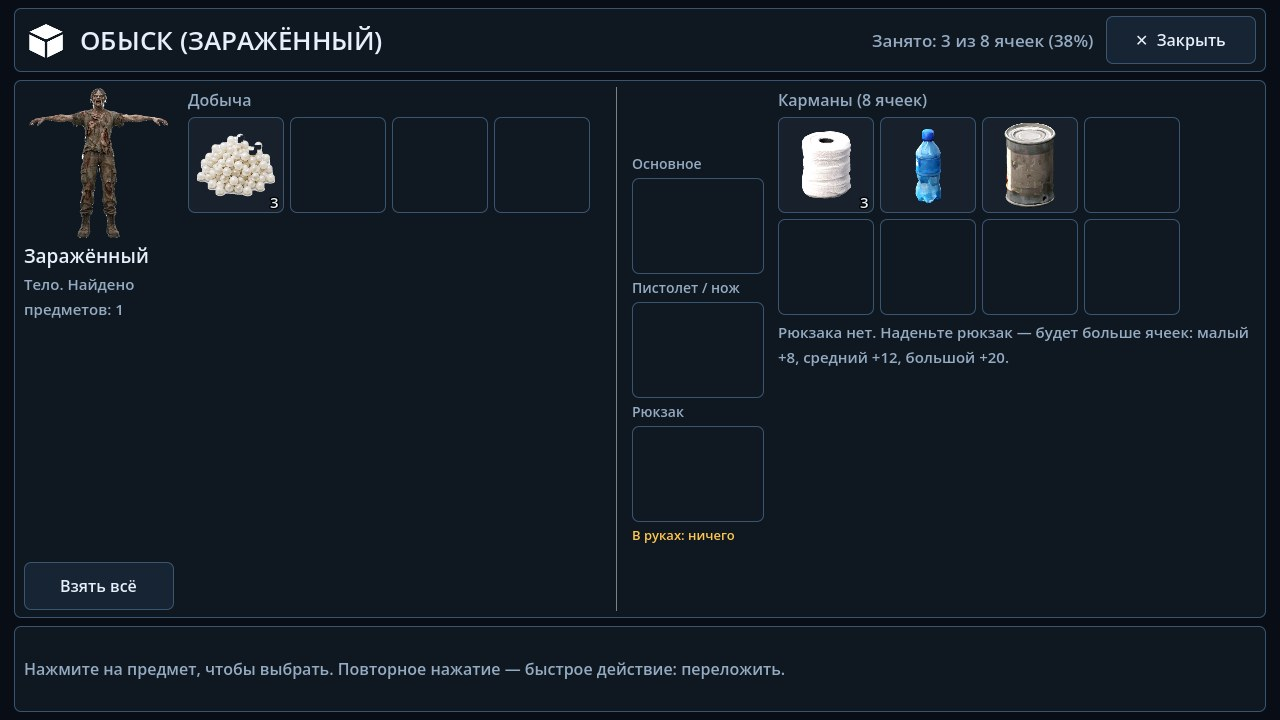
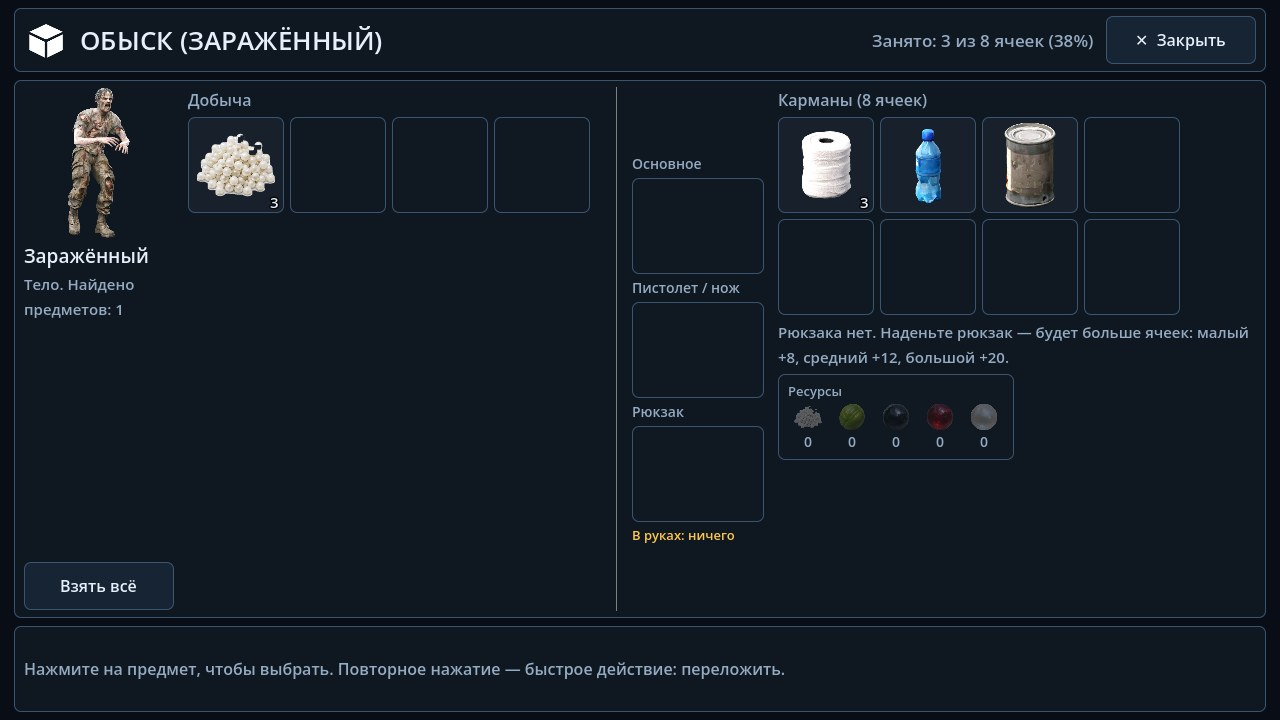
Стенд: картинка заражённого в живой позе (снимок 3D-модели) — обыск и справочник; сборка 30
Claude-Session: https://claude.ai/code/session_012mFYCmtNnDBPzGE6DVCLqL

Changed region(s): [[0.0312, 0.1222, 0.125, 0.3361], [0.5938, 0.5194, 0.6875, 0.6111], [0.7188, 0.55, 0.7812, 0.6111]]

diff --git a/stand/docs/WORLD.md b/stand/docs/WORLD.md
@@ -191,6 +191,9 @@
   `KINDS`: предмет, от, до); что именно лежит, решается при появлении. Горошина и жемчужины в игре есть как
   предметы, но пока ни в ком не лежат: они для существ сильнее. Значки вырезаны из присланной картинки.
   ![добыча в карманах](loot.jpg)
+- Картинка врага (окно обыска и справочник) — снимок его 3D-модели в живой позе, а не в исходной «руки в
+  стороны»: `tools/portrait.tscn` ставит кадр клипа (`POSES`: у заражённого — крадётся, руки тянутся вперёд) и
+  пишет `assets/icons/enemy_<вид>.png`. Для нового врага достаточно добавить его в `ULEnemy.KINDS` и запустить.
 - **Справочник** (меню → «Справочник»): картинка врага и строки, собранные из тех же чисел, по которым он живёт
   (`ULEnemy.describe`): как ходит, как нападает, прочность, что бывает в теле, сколько лежит тело.
   ![справочник](book.jpg)
